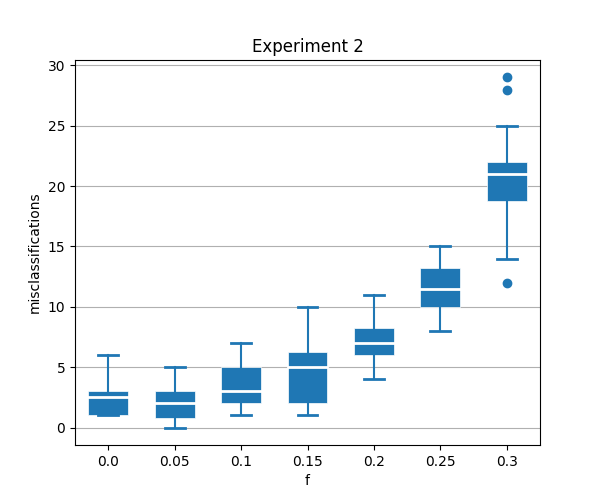
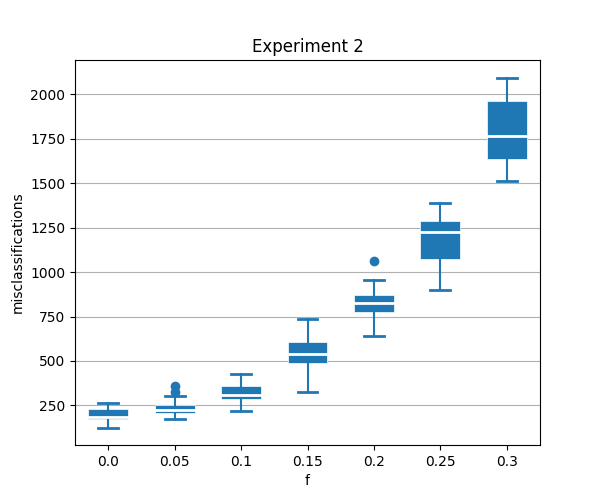
Experiment Results #final

diff --git a/experiments.py b/experiments.py
@@ -6,7 +6,7 @@ import numpy as np
 
 # constants
 repeat = 20
-q_size = 100
+q_size = 10000
 k_nn = 5
 
 # Performs a single experiment. Repeats it 20 times.
